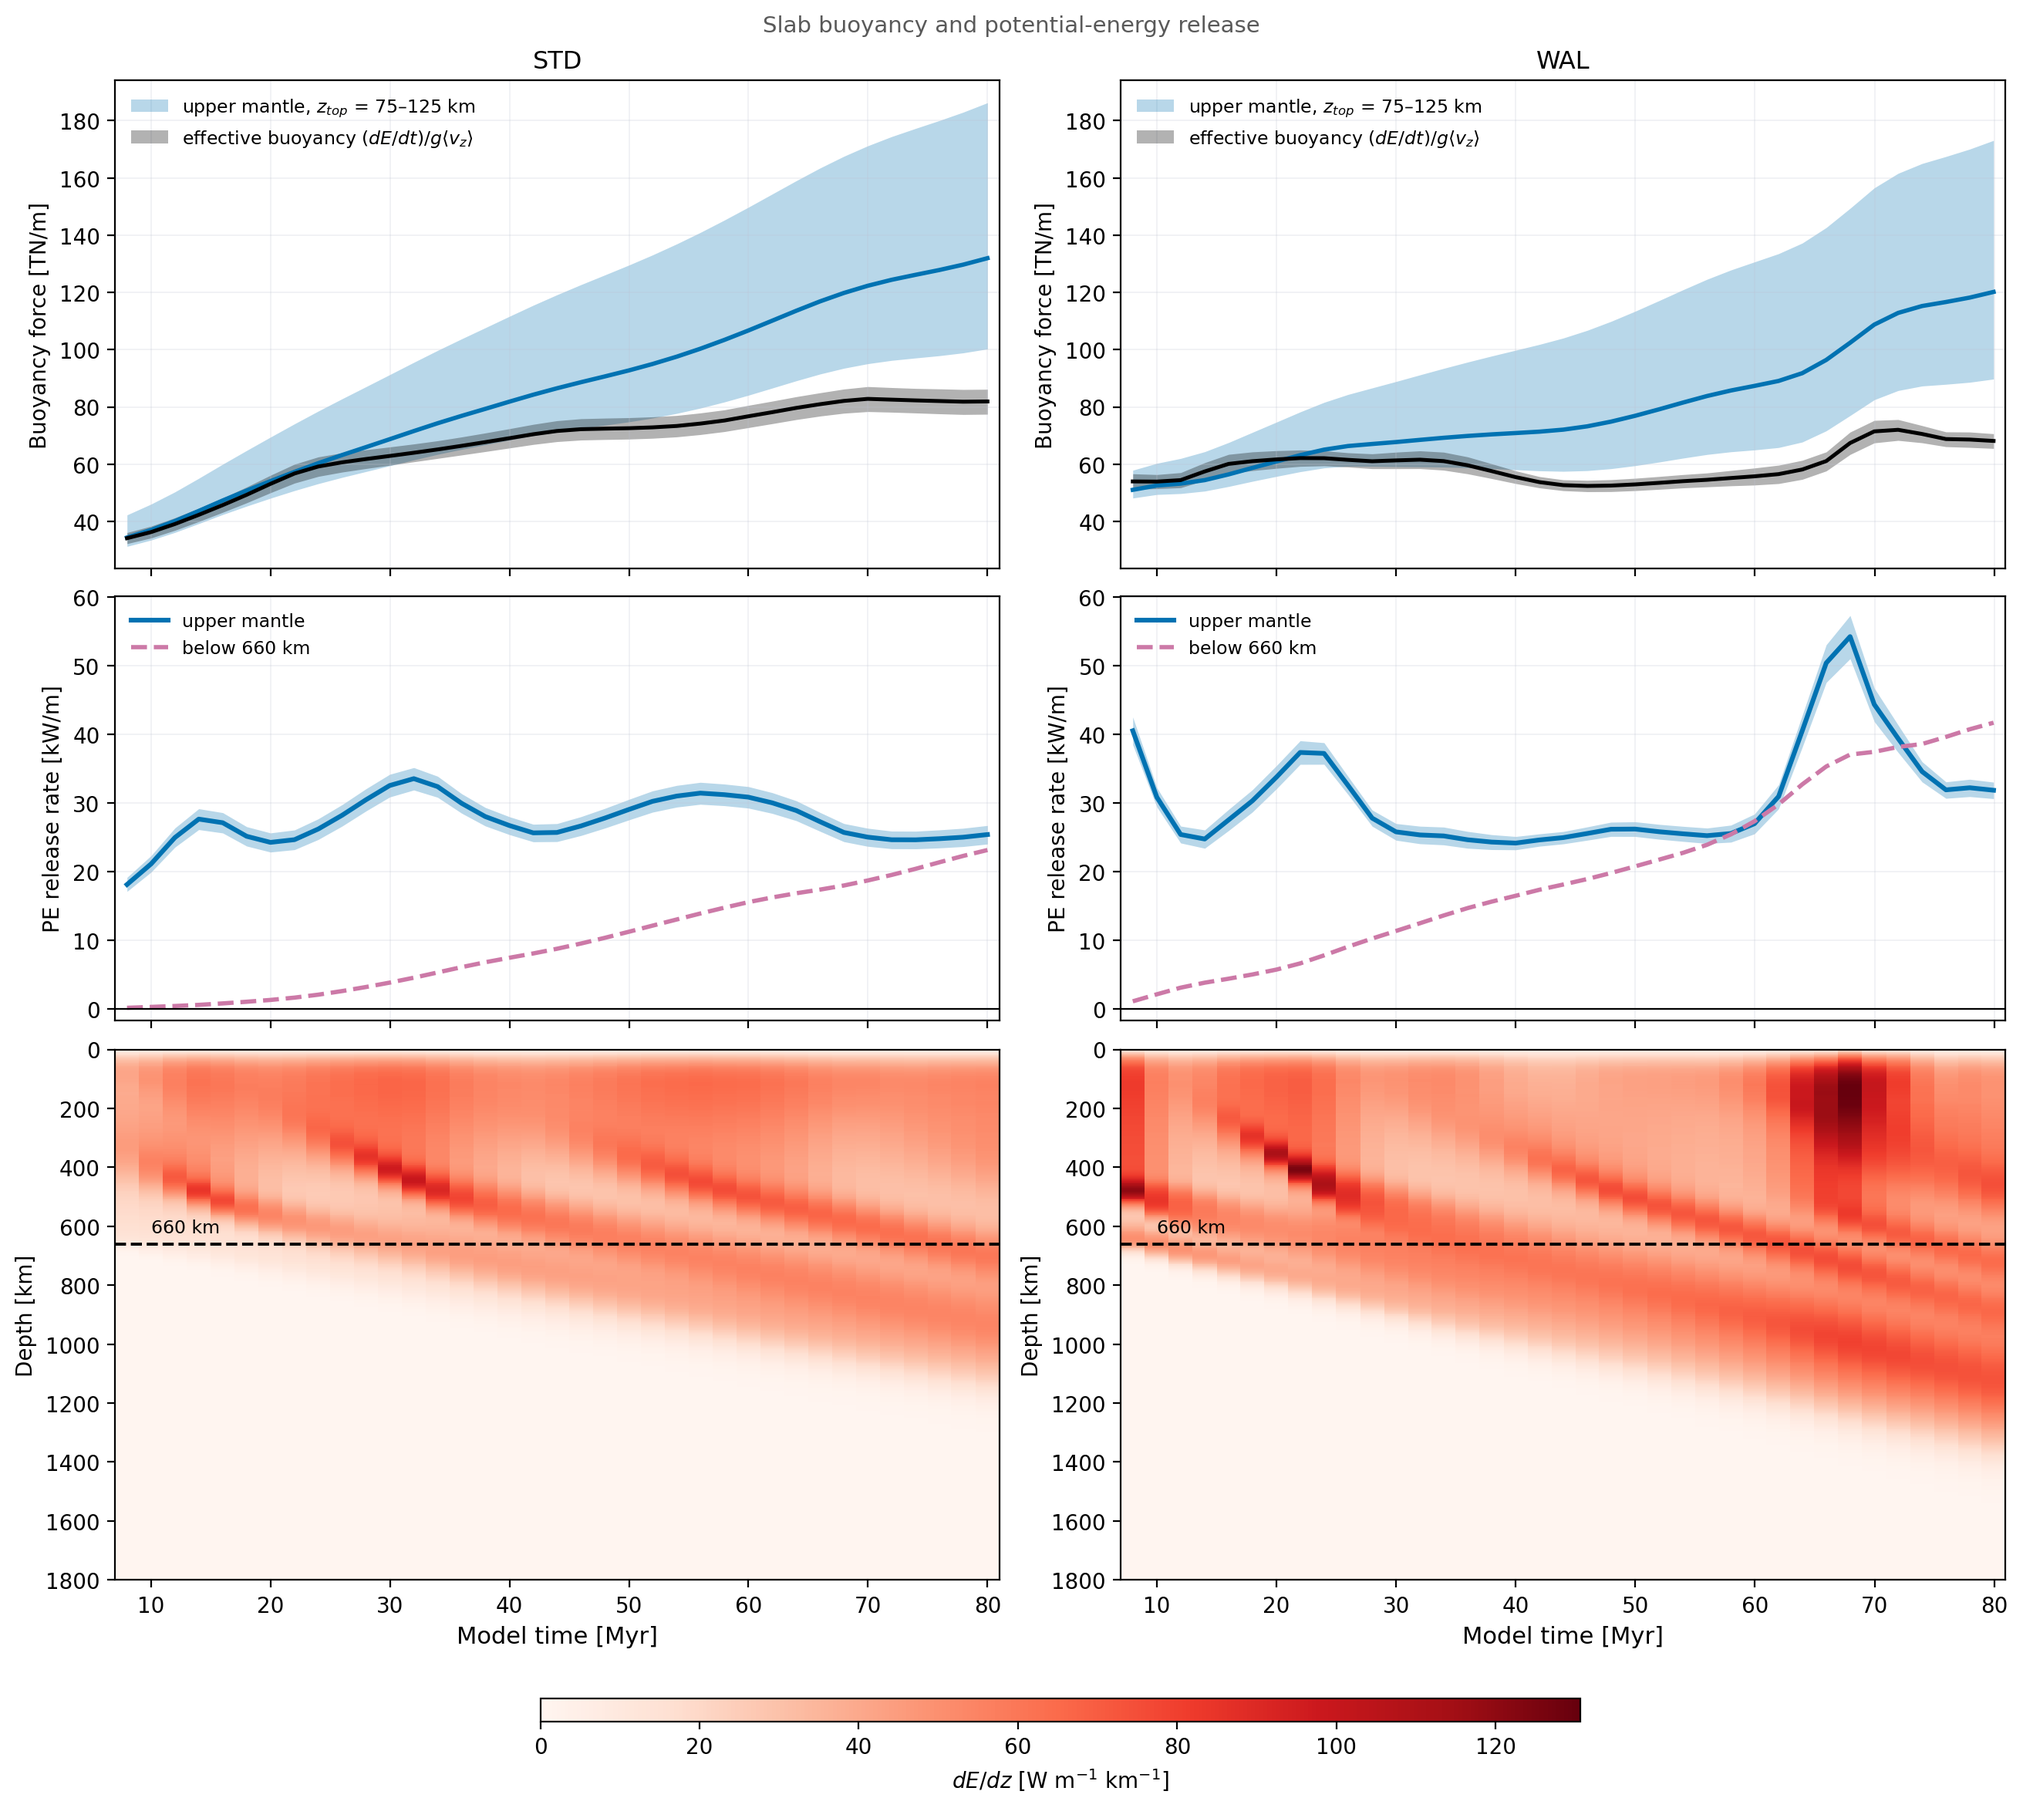
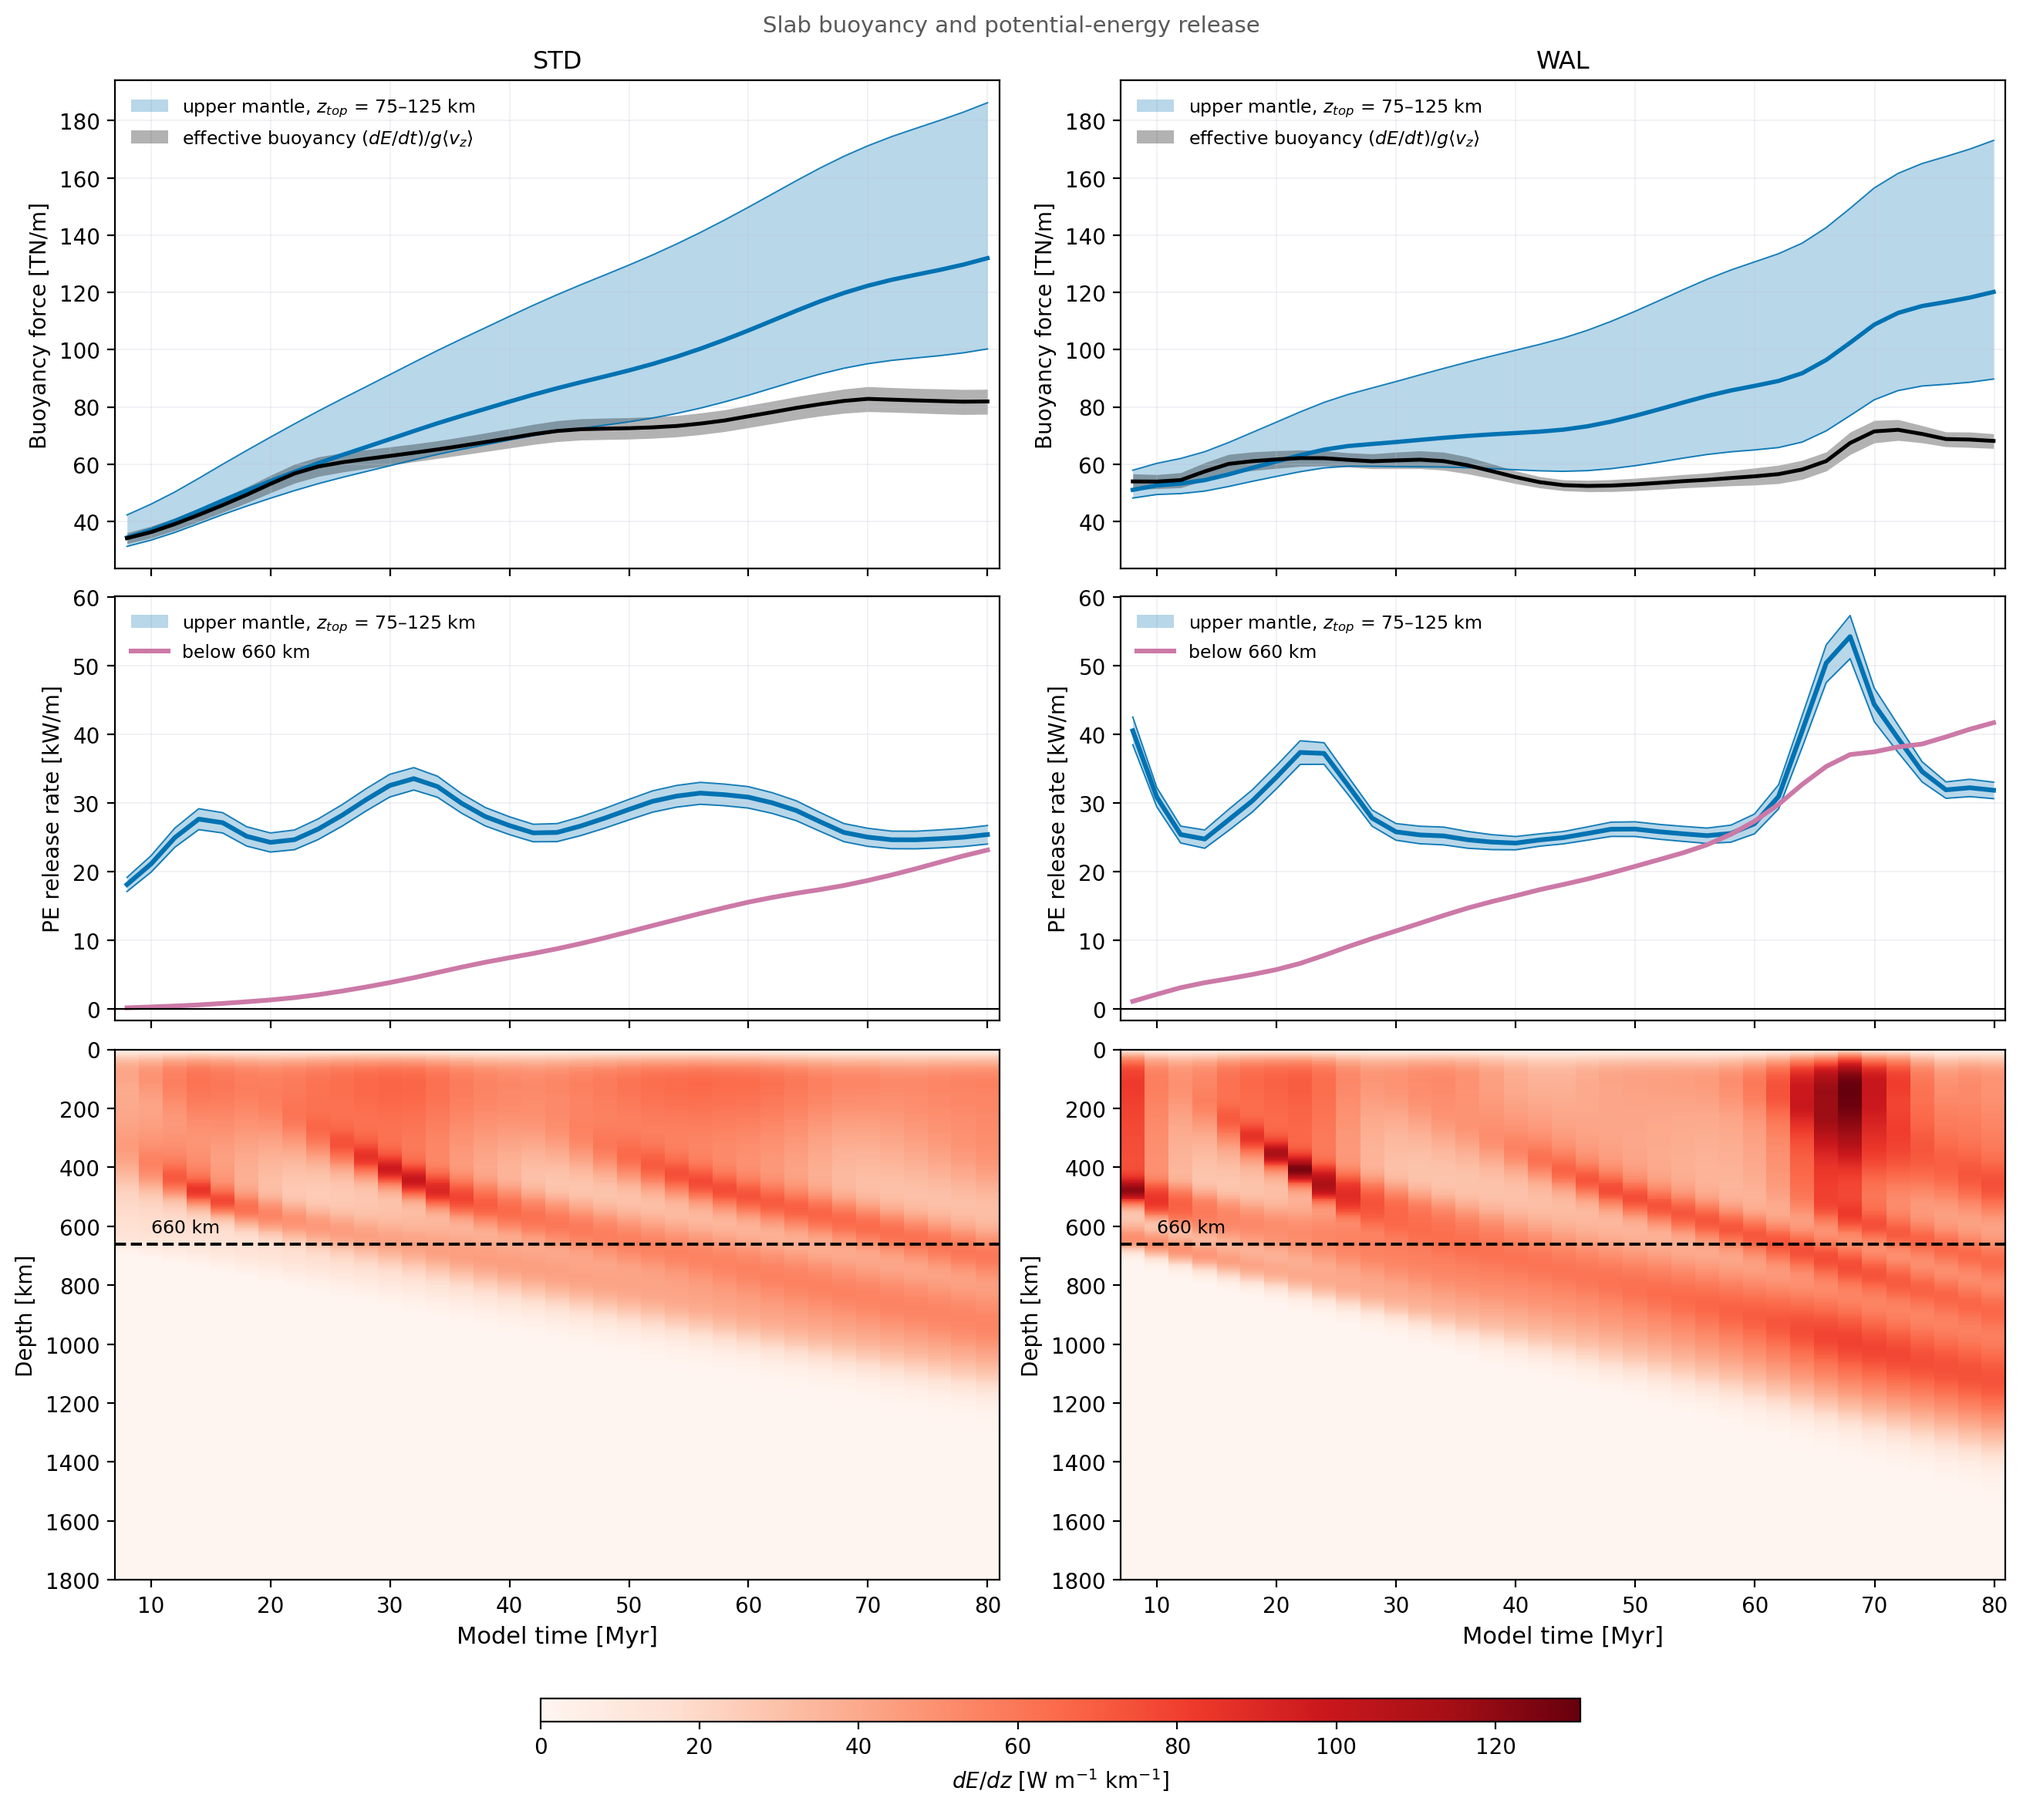
fig_slab_buoyancy: label the row-2 band, edge both bands, unify the line styles
Dan, 2026-09-24, two points on row 2.

The upper-mantle curve carried the same z_top 75-125 km band as row 1 but
was never labelled, and at ~10 % width it read as a thick line — hiding
the very comparison the figure makes. Both bands now carry thin edge
lines and the row-2 band has its own legend entry.

The lower-mantle curve was dashed where the upper-mantle one was solid,
which read as an arbitrary style difference. Both are solid now,
distinguished by colour. The one real difference — only the upper-mantle
curve is shaded — is because the 660 km-to-base region has no z_top
dependence at all, and the caption now says so.

Changed region(s): [[0.5559, 0.3426, 0.6485, 0.3737], [0.0618, 0.3426, 0.1544, 0.3737], [0.9264, 0.4049, 0.9573, 0.436]]

diff --git a/scripts/fig_slab_buoyancy.py b/scripts/fig_slab_buoyancy.py
@@ -47,7 +47,10 @@ translating plate automatically instead of excluding it by hand.
      kinematics/diag_buoyancy_time. The contrast between the two band
      WIDTHS is the whole content of this row and anything else competes
      with it.
-  2  PE release rate, upper and lower mantle, with its own z_top band.
+  2  PE release rate, upper and lower mantle. THE UPPER-MANTLE CURVE
+     CARRIES THE SAME z_top BAND as row 1 -- it is ~10 % wide against
+     row 1's ~45 %, which is the comparison the figure exists to make, so
+     both bands are labelled and edged.
   3  where the release happens: dE/dz against depth and time, 660 marked.
 
 WHAT IT SHOWS.
@@ -119,7 +122,11 @@ slab's mean sinking rate over 200-660 km -- shaded over the same range,
 both shaded across the same range of upper integration depths. The wide
 band shows that the buoyancy force depends strongly on where the plate is
 judged to end; the narrow one shows that the effective buoyancy does not. (c, d) Rate of
-potential-energy release for the same regions. (e, f) Release rate per
+potential-energy release for the same regions. Only the upper-mantle
+curve is shaded: the lower-mantle region is bounded at 660~km and below,
+so it carries no dependence on the upper integration depth. The
+upper-mantle shading spans the same $z_{top}$ range as (a, b) and is
+narrow because the release rate is nearly independent of that choice. (e, f) Release rate per
 unit depth against time, with the 660 km discontinuity marked.
 """
 import os, sys
@@ -198,6 +205,8 @@ def main():
 
         a0.fill_between(t, Fum[0], Fum[2], color=C_UM, alpha=0.28, lw=0,
                         label='upper mantle, $z_{top}$ = 75–125 km')
+        for k_ in (0, 2):
+            a0.plot(t, Fum[k_], '-', color=C_UM, lw=0.7, alpha=0.9)
         a0.plot(t, Fum[1], '-', color=C_UM, lw=2.0)
         a0.fill_between(t, Feff[0], Feff[2], color=C_EFF, alpha=0.30, lw=0,
                         label='effective buoyancy $(dE/dt)/g\\langle v_z\\rangle$')
@@ -206,9 +215,21 @@ def main():
         a0.set_title(key, fontsize=11.5)
         a0.legend(frameon=False, fontsize=8.5, loc='upper left')
 
-        a1.fill_between(t, Pum[0], Pum[2], color=C_UM, alpha=0.28, lw=0)
-        a1.plot(t, Pum[1], '-', color=C_UM, lw=2.2, label='upper mantle')
-        a1.plot(t, Plm, '--', color=C_LM, lw=2.0, label='below 660 km')
+        # The z_top band is drawn here too, and LABELLED AS SUCH. It is only
+        # ~10 % wide, so without a legend entry and edge lines it reads as a
+        # thick line -- which hides the very comparison the figure makes
+        # (Dan, 2026-09-24). Row 1's band and this one span the same range.
+        a1.fill_between(t, Pum[0], Pum[2], color=C_UM, alpha=0.28, lw=0,
+                        label='upper mantle, $z_{top}$ = 75–125 km')
+        for k_ in (0, 2):
+            a1.plot(t, Pum[k_], '-', color=C_UM, lw=0.7, alpha=0.9)
+        a1.plot(t, Pum[1], '-', color=C_UM, lw=2.2)
+        # BOTH SOLID, distinguished by colour (Dan, 2026-09-24): a dashed
+        # lower-mantle curve read as an arbitrary style difference. The one
+        # real difference is that only the upper-mantle curve carries a
+        # band, because the 660 km-to-base region has no z_top dependence
+        # at all -- there is nothing to shade. The caption says so.
+        a1.plot(t, Plm, '-', color=C_LM, lw=2.2, label='below 660 km')
         a1.axhline(0, color='k', lw=0.8)
         a1.set_ylabel('PE release rate [kW/m]', fontsize=10)
         a1.legend(frameon=False, fontsize=8.5, loc='upper left')
